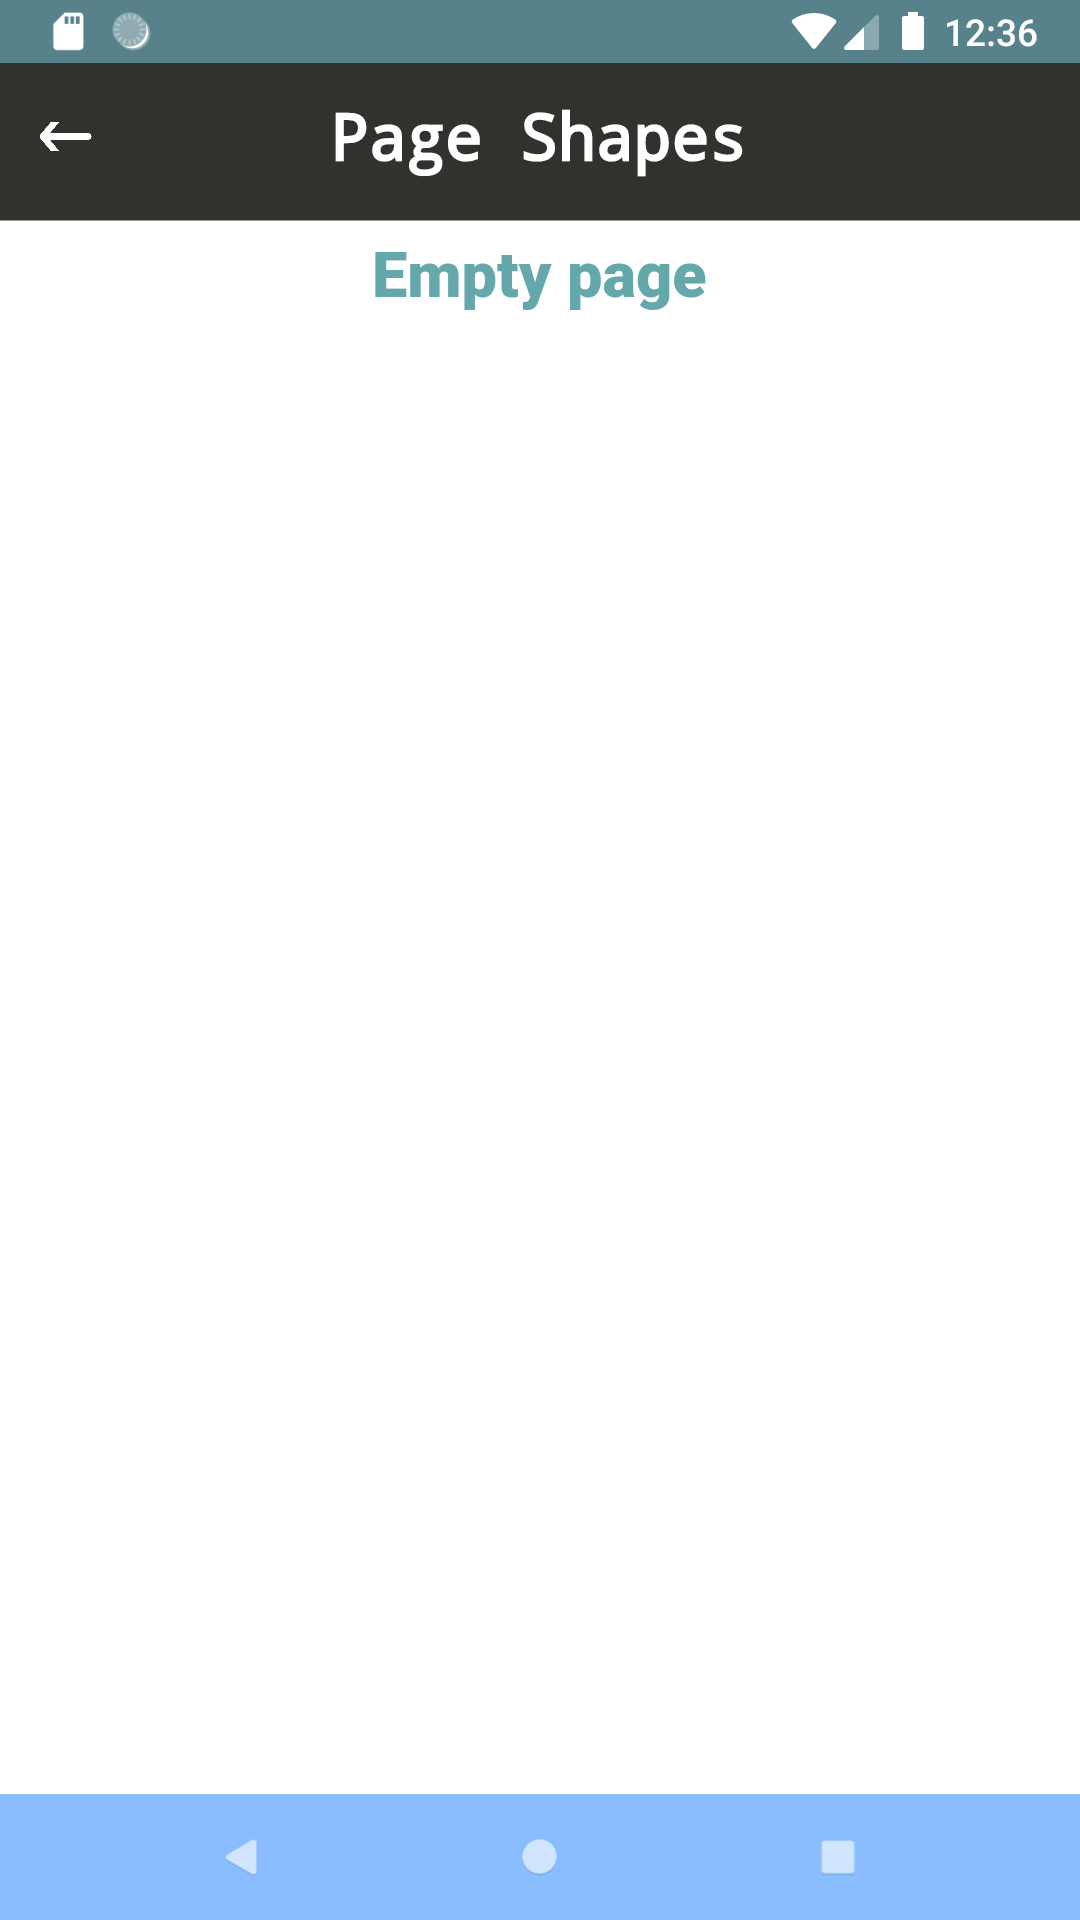
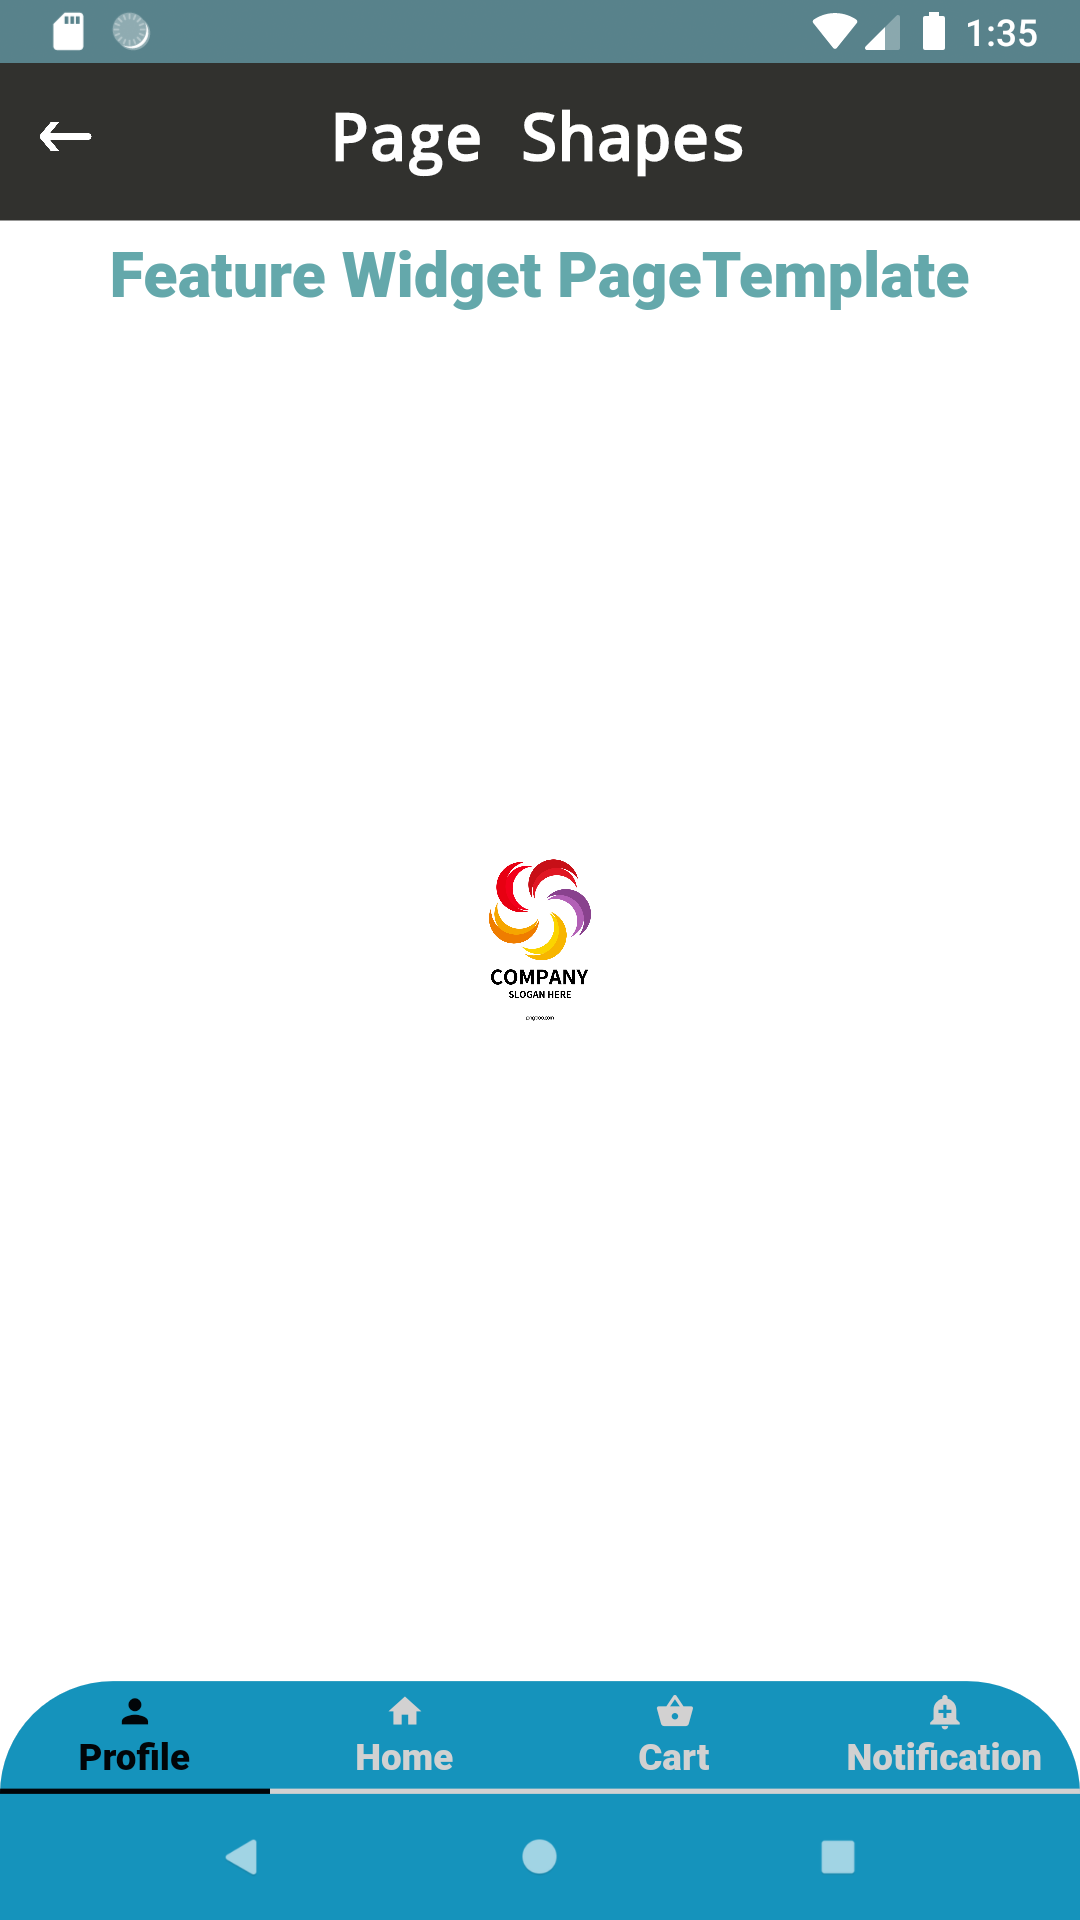
edit thump.png

diff --git a/lib/tutorial/page/TutorialCreateFastorPage.dart b/lib/tutorial/page/TutorialCreateFastorPage.dart
@@ -23,6 +23,9 @@ class TutorialCreateFastorState extends State<TutorialCreateFastorPage> {
         toolbar: ToolbarSimpleFastor( context, "Page Shapes"),
         toolbar_height : 70,
 
+        //background
+        widgetBackground: CustomWidgetBackground(),
+
         //navigation bottom
         navigationBottom: NavigationFastor( context, 0),
         navigationBottom_height: 70,
@@ -32,7 +35,7 @@ class TutorialCreateFastorState extends State<TutorialCreateFastorPage> {
   }
 
   Widget getContent() {
-    return  TextTemplate.t( "Feature Navigation Bottom" );
+    return  TextTemplate.t( "Feature Widget PageTemplate" );
   }
 
 
